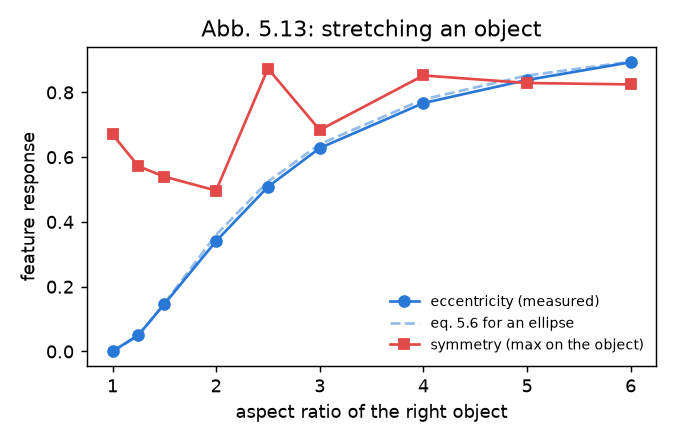
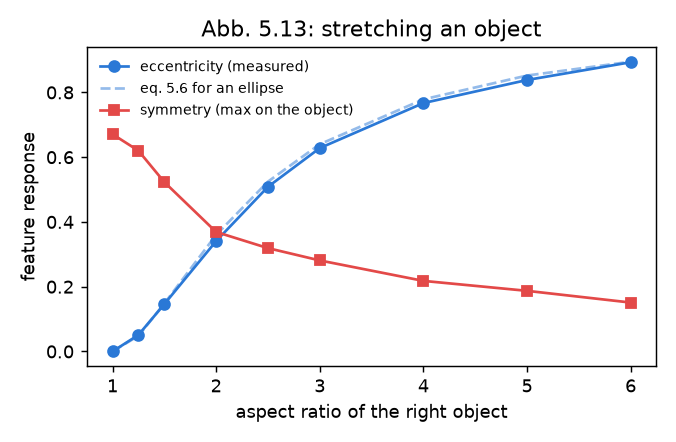
Docs: symmetry ported - the dossier's symmetry rows replicate; README and plan updated
Stretching an object now lowers its symmetry response monotonically (0.67 ->
0.15, Abb. 5.13) and the symmetry maximum stays on the disk at every noise level
(Abb. 5.14). Figures regenerated by eval/replication.py --all.

Claude-Session: https://claude.ai/code/session_01QTe5gEqgxfcCrGE5XzVLdo

diff --git a/docs/replication/REPLICATION_DOSSIER.md b/docs/replication/REPLICATION_DOSSIER.md
@@ -1,7 +1,7 @@
 # Replication dossier — the dissertation's findings, re-run (M10)
 
-*Track: **replication** (docs/adr/0005). First version, 2026-09-20. Every number
-here is printed by one command:*
+*Track: **replication** (docs/adr/0005). First version 2026-09-20; symmetry
+ported and re-run 2026-09-21. Every number here is printed by one command:*
 
 ```bash
 eval/replication.py --all        # CPU only, ~10 min; figures land in docs/replication/figures
@@ -24,8 +24,9 @@ the thesis's own running example (`data/test_images/inputc.png`, the office
 scene of Abb. 5.8–5.22). Feature responses are read on an absolute [0, 1] scale
 (`attention --emit-features`), one feature at a time, with the thesis's
 parameters and without exclusivity unless the experiment is about it.
-"Divergences are findings, not failures" (roadmap M10) — two of them below
-change how other results in this repository should be read.
+"Divergences are findings, not failures" (roadmap M10): the first version of
+this dossier found that the symmetry feature diverged (finding A); it has since
+been ported from the original and the affected rows re-run.
 
 ## Summary
 
@@ -33,9 +34,9 @@ change how other results in this repository should be read.
 |---|---|---|---|
 | 1 | Abb. 5.10 | Eccentricity is 0 for round shapes and high for elongated ones | **replicated** |
 | 2a | Abb. 5.13 | Stretching an object raises its eccentricity response, monotonically | **replicated** — on the thesis's eq. 5.6 to within 0.02 |
-| 2b | Abb. 5.13 | … and lowers its symmetry response | **diverged** — the symmetry response does not fall, and is not located on the object (finding A) |
+| 2b | Abb. 5.13 | … and lowers its symmetry response | **replicated** after the symmetry port (0.67 → 0.15, monotone); *diverged* before it (finding A) |
 | 3a | Abb. 5.14 | The eccentricity maximum stays on its object under added noise | **replicated** up to σ ≈ 38 grey levels; degrades beyond |
-| 3b | Abb. 5.14 | The symmetry maximum stays on its object under added noise | **diverged** — it is not on the object without noise either (finding A) |
+| 3b | Abb. 5.14 | The symmetry maximum stays on its object under added noise | **replicated** after the port — on the object at every noise level, up to σ ≈ 115; *diverged* before it (finding A) |
 | 4 | Abb. 5.15 | Eccentricity segmentation is plausible for a growth threshold of 0.5–0.75 | **partially** — stable in 0.5–0.75 as claimed, but less flat than the thesis suggests (map correlation 0.64–0.78 with the default) |
 | 5 | Abb. 5.16 | … and for a merge threshold of 12–36 (default 20) | **replicated** — correlation ≥ 0.88 over the whole range 4–48 |
 | 6 | Abb. 5.20 | The colour-contrast response grows with the colour difference | **replicated** — monotone; saturates early |
@@ -68,13 +69,14 @@ image.)
 A reference disk on the left; on the right an object of constant area stretched
 from 1:1 to 6:1. **Eccentricity** rises monotonically and lies on
 ((a² − 1)/(a² + 1))² — the thesis's eq. 5.6 for an ellipse — to within 0.02 at
-every step. **Symmetry** should fall ("immer geringere Salienzwerte"); it goes
-0.67 → 0.50 → 0.87 → 0.82: not monotone, and higher at the end than at the
-start.
+every step. **Symmetry** falls monotonically, 0.67 → 0.62 → 0.52 → 0.37 → … →
+0.15 ("immer geringere Salienzwerte") — the two features trade places exactly as
+the thesis's figure shows. *(Before the symmetry port it went 0.67 → 0.50 →
+0.87 → 0.82: not monotone, higher at the end than at the start.)*
 
-### Finding A — the symmetry feature does not peak on symmetric objects
+### Finding A — the symmetry feature did not peak on symmetric objects (found 2026-09-20, fixed 2026-09-21)
 
-For a single bright disk on a grey ground the symmetry map has responses inside
+*What the first version of this dossier found.* For a single bright disk on a grey ground the symmetry map has responses inside
 the disk *and equally strong ones about 80 px to either side of it*, in empty
 space; its global maximum is off the object for every disk size tried (radius
 12, 24, 40), without any noise. This is the "symmetry fires in the empty space
@@ -94,13 +96,21 @@ px in the image; the thesis's Tab. 5.1 has radii 6–15 at one scale). With no
 absolute reference, a one-sided response at a coarse scale is as strong as a
 true centre, and appears as a ring around every object.
 
-**Consequences.** (1) Symmetry is a third of the thesis profile: the H1
-confirmatory run and the M11 human-scanpath run both used it. In H1 it is a
-plausible contributor to the "third of fixations on no object" of the
-object-based arms — that caveat is now attached to the H1 verdict. (2) The fix
-is the same kind as for colour and eccentricity: port the original's combination
-step (absolute scale, clip offset, the thesis's radii). It regenerates the
-thesis goldens and should be followed by re-running H1 and M11.
+*The fix.* The combination step was ported from the original
+(`feature/symmetry.C`, thesis Tab. 5.1): a working image of at most 256 px,
+quadrature Gabor energy on an absolute scale (a full-contrast step edge = 1),
+radii 6–15 in adjoining bands of 3 at the working size and its two halvings, a
+fixed clip offset of 60/255, scales combined by maximum. A lone disk now peaks
+at its centre (0.43 / 0.82 / 0.99 for radius 12 / 24 / 40), a single straight
+edge — the one-sided case — gives 0.08, and on the thesis's running example the
+map peaks on the ball. One thing the sources do not settle is the gain of the
+original Gabor implementation, which fixes what "60 of 255" means; the
+calibration chosen is documented in `symmetry_feature.h`.
+
+*Consequences.* Symmetry is a third of the thesis profile, so the H1
+confirmatory run and the M11 human-scanpath run were repeated with the ported
+feature (H1 on a fresh block of seeds); both documents say which numbers are
+which.
 
 ### 3 · Abb. 5.14 / 5.21 — noise
 
@@ -110,7 +120,8 @@ Normally distributed noise, σ = level × 128 grey levels, five seeds per level.
 The eccentricity maximum stays on the bar up to level 0.3 (σ ≈ 38) and is lost
 for half the seeds beyond; the colour-contrast maximum stays on the blob at
 every level, up to σ ≈ 115 (the blob-minus-ground contrast falls only from 1.00
-to 0.91). Symmetry: see finding A.
+to 0.91). The symmetry maximum stays on the disk at every level as well, with
+the bar in the scene or without. (The figure is from the re-run.)
 
 *A side finding:* eccentricity histogram-equalizes its input, as the original
 does. On a synthetic image with three grey levels that maps a *bright* object
@@ -200,13 +211,14 @@ the thesis's nearest-centroid correspondence, 1.7 with persistent identity**
 
 ## What the dossier says about the reimplementation
 
-- The two features ported from the original sources in 2026-09 — **eccentricity
-  and colour contrast — reproduce every thesis finding tested**, quantitatively
-  where the thesis gives an equation. Exclusivity does too.
-- **Symmetry does not** (finding A). It is the one static feature that was not
-  re-ported, and it is the next replication-track task.
+- The three static features, all ported from the original sources in 2026-09 —
+  **eccentricity, colour contrast and symmetry — reproduce every thesis finding
+  tested**, quantitatively where the thesis gives an equation. Exclusivity does
+  too.
+- The dossier earned its keep on its first run: it found that symmetry, the one
+  feature not yet re-ported, answered beside objects instead of on them.
 - Identity through occlusion holds only with the extensions, not with the
   thesis's correspondence — consistent with H1.
 
-Replication-track definition of done (ADR-0005): fix symmetry → re-run this
-dossier, H1 and M11 → the stereo experiments → tag `replication-v1`.
+Replication-track definition of done (ADR-0005): ~~fix symmetry~~ → re-run H1
+and M11 with it (in progress) → the stereo experiments → tag `replication-v1`.

diff --git a/README.md b/README.md
@@ -27,12 +27,13 @@ tested C++ system, with a Python layer that scores it against human fixations
 and modern saliency models.
 
 How faithful, component by component: stereo, the neural fields and — since
-2026-09 — colour contrast (Munsell/MTM segmentation), eccentricity and the
-exclusivity weighting are ports of the original sources and the thesis's
+2026-09 — colour contrast (Munsell/MTM segmentation), eccentricity, symmetry
+and the exclusivity weighting are ports of the original sources and the thesis's
 equations; onset and the symbolic second stage are reconstructions from the
-thesis text, because their sources did not survive; symmetry has the thesis's
-summation core but a different combination step, and does not yet replicate
-the thesis's findings ([dossier](docs/replication/REPLICATION_DOSSIER.md)). `configs/thesis/` holds the dissertation profiles (the
+thesis text, because their sources did not survive. The
+[replication dossier](docs/replication/REPLICATION_DOSSIER.md) re-runs the
+thesis's own feature experiments: all three static features reproduce every
+finding tested. `configs/thesis/` holds the dissertation profiles (the
 replication track — finite, to be frozen when done); everything else is the
 modern track, free to move away from the thesis
 ([ADR-0005](docs/adr/0005-two-tracks-replication-and-modern.md)).
@@ -228,7 +229,7 @@ to check that everything still works.
 - [thesis_vs_modern.md](docs/thesis_vs_modern.md) — thesis model vs. modern saliency models
 - [ALTERNATIVE_FEATURES.md](docs/ALTERNATIVE_FEATURES.md) · [SELECTION_BACKENDS.md](docs/SELECTION_BACKENDS.md) — pluggable operators / trackers
 - [DYNAMIC_IOR_STUDY.md](docs/DYNAMIC_IOR_STUDY.md) · [GATED_RECOGNITION.md](docs/GATED_RECOGNITION.md) · [PRIORITY_MAP.md](docs/PRIORITY_MAP.md) · [VLM_FRONT_END.md](docs/VLM_FRONT_END.md) · [VLM_VIDEO.md](docs/VLM_VIDEO.md) — the H1, H2, H5, H6 and H7 studies
-- [REPLICATION_DOSSIER.md](docs/replication/REPLICATION_DOSSIER.md) — the dissertation's own findings, re-run: what replicates (eccentricity, colour contrast, exclusivity) and what does not (symmetry)
+- [REPLICATION_DOSSIER.md](docs/replication/REPLICATION_DOSSIER.md) — the dissertation's own findings, re-run: eccentricity, colour contrast, symmetry and exclusivity replicate; what was not attempted yet
 - [PAPER_READINESS.md](docs/PAPER_READINESS.md) — what could be published, and what is missing
 - [CRITICAL_REVIEW_2026-09.md](docs/CRITICAL_REVIEW_2026-09.md) · [HYPOTHESIS_CLOSURE_PLAN.md](docs/HYPOTHESIS_CLOSURE_PLAN.md) · [FEATURE_ASSESSMENT.md](docs/FEATURE_ASSESSMENT.md) — the 2026-09 review: what is solid, what is not, and the plan to close the open hypotheses
 - [PERFORMANCE.md](docs/PERFORMANCE.md) — timing and optimization notes

diff --git a/docs/HYPOTHESIS_CLOSURE_PLAN.md b/docs/HYPOTHESIS_CLOSURE_PLAN.md
@@ -173,9 +173,9 @@ Replication track — finite; close it and freeze it:
    (`docs/replication/REPLICATION_DOSSIER.md`): eccentricity, colour contrast
    and exclusivity replicate; **symmetry diverges** (responds around objects,
    not on them).
-3a. **Port the symmetry combination step from the original** (absolute scale,
-   clip offset, the thesis's radii) — then re-run the dossier, H1 (staleness /
-   off-object share) and M11. Then the stereo experiments.
+3a. ~~Port the symmetry combination step from the original~~ — **done
+   2026-09-21**; the dossier's symmetry rows now replicate. H1 (fresh seeds
+   2000–2029) and M11 re-run with it. Then the stereo experiments.
 4. Tag `replication-v1`, freeze the thesis goldens.
 
 Modern track — optimise first, then confirm once:

diff --git a/docs/FEATURE_ASSESSMENT.md b/docs/FEATURE_ASSESSMENT.md
@@ -54,7 +54,9 @@ did not depend on the defective feature.
   it is what `default.yaml` and the `attend*.yaml` study configs still run.
 - `configs/attend*.yaml` (H1, H7) still use `color`, not `color-munsell` — see
   ADR-0005, open point 1.
-- **Symmetry — now measured, and the most important open item**
+- ~~Symmetry~~ — **ported 2026-09-21** (absolute scale, clip offset, thesis
+  Tab. 5.1 radii; a lone disk peaks at its centre, a single edge gives 0.08; four
+  behavioural tests). What was wrong:
   (`docs/replication/REPLICATION_DOSSIER.md`, finding A): for a lone disk its
   maximum lies ~80 px *beside* the disk. The summation core is a faithful port;
   the combination step is not — per-band normalization and relative thresholds
